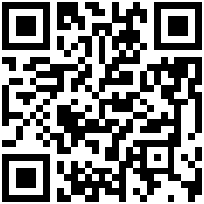
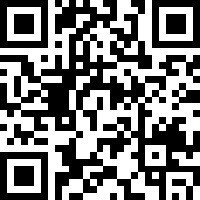
Update Bitcoin address

diff --git a/donate/index.html b/donate/index.html
@@ -7,22 +7,24 @@ title: Donate
     <div class="container">
         <p>We've been developing ShareX for the past 10 years. It always has been, and will continue to be, free and open source software. ShareX isn't just free in terms of price; there are no advertisements. Just like our users, we don't like ads. Donations are our only source of income and allow us to keep ShareX free. If you would like to support our project then please consider donating.</p>
         
-        <a class="donate-button" href="https://www.patreon.com/ShareX"><img src="../img/Patreon.png" alt="Patreon" /></a>
+        <a class="btn" role="button" href="https://www.patreon.com/ShareX"><img src="{{ site.url }}/img/Patreon.png" /><span>Patreon</span></a>
+        <a class="btn" role="button" href="#" data-toggle="modal" data-target="#bitcoin-modal"><img src="{{ site.url }}/img/Bitcoin.png" /><span>Bitcoin (BTC)</span></a>
+        <a class="btn" role="button" href="#" data-toggle="modal" data-target="#bitcash-modal"><img src="{{ site.url }}/img/BitcoinCash.png" /><span>Bitcoin Cash (BTH)</span></a>
+        <a class="btn" role="button" href="#" data-toggle="modal" data-target="#bitcoin-modal"><img src="{{ site.url }}/img/Ethereum.png" /><span>Ethereum (ETH)</span></a>
+        <a class="btn" role="button" href="#" data-toggle="modal" data-target="#bitcoin-modal"><img src="{{ site.url }}/img/Litecoin.png" /><span>Litecoin (LTC)</span></a>
 
-        <a class="donate-button" href="#" data-toggle="modal" data-target="#bitcoin-modal"><img src="../img/Bitcoin.png" alt="Bitcoin" /></a>
-
-        <div id="bitcoin-modal" class="modal fade" tabindex="-1" role="dialog">
+        <div id="bitcoin-modal" class="modal fade crypto-modal" tabindex="-1" role="dialog">
             <div class="modal-dialog" role="document">
                 <div class="modal-content">
                     <div class="modal-header">
-                        <h4 class="modal-title">Bitcoin address</h4>
+                        <h4 class="modal-title">Bitcoin (BTC) address</h4>
                         <button type="button" class="close" data-dismiss="modal"><span>&times;</span></button>
                     </div>
                     <div class="modal-body">
                         <div class="text-center">
-                            <img class="bitcoin-qr" src="../img/Bitcoin_QR.png" />
-                            <div class="card panel-default bitcoin-address">
-                                <div class="card-body">1MwWuN3HQ1aMsDQj5EDGxaNsbAw3Ps956P</div>
+                            <img class="crypto-qr" src="{{ site.url }}/img/Bitcoin_QR.png" />
+                            <div class="card panel-default crypto-address">
+                                <div class="card-body">3HYwAmnTGkd9PhsFvr8zNsuiFPUCG1ywcw</div>
                             </div>
                         </div>
                     </div>

diff --git a/css/main.scss b/css/main.scss
@@ -351,8 +351,19 @@ footer {
         margin-bottom: $container-padding;
     }
 
-    .donate-button {
-        margin-right: $container-padding;
+    .btn {
+        margin-left: 0px;
+        margin-top: 0px;
+        padding-left: 1rem;
+        padding-right: 1rem;
+
+        img {
+            margin-right: 10px;
+        }
+    
+        span {
+            vertical-align: middle;
+        }
     }
 }
 
@@ -362,18 +373,18 @@ footer {
     background: $background;
 }
 
-#bitcoin-modal {
+.crypto-modal {
     color: $button-color;
 
     .close {
         font-size: 30px;
     }
 
-    .bitcoin-qr {
+    .crypto-qr {
         margin: 20px;
     }
 
-    .bitcoin-address {
+    .crypto-address {
         margin: 15px 5px 5px 5px;
 
         .card-body {
